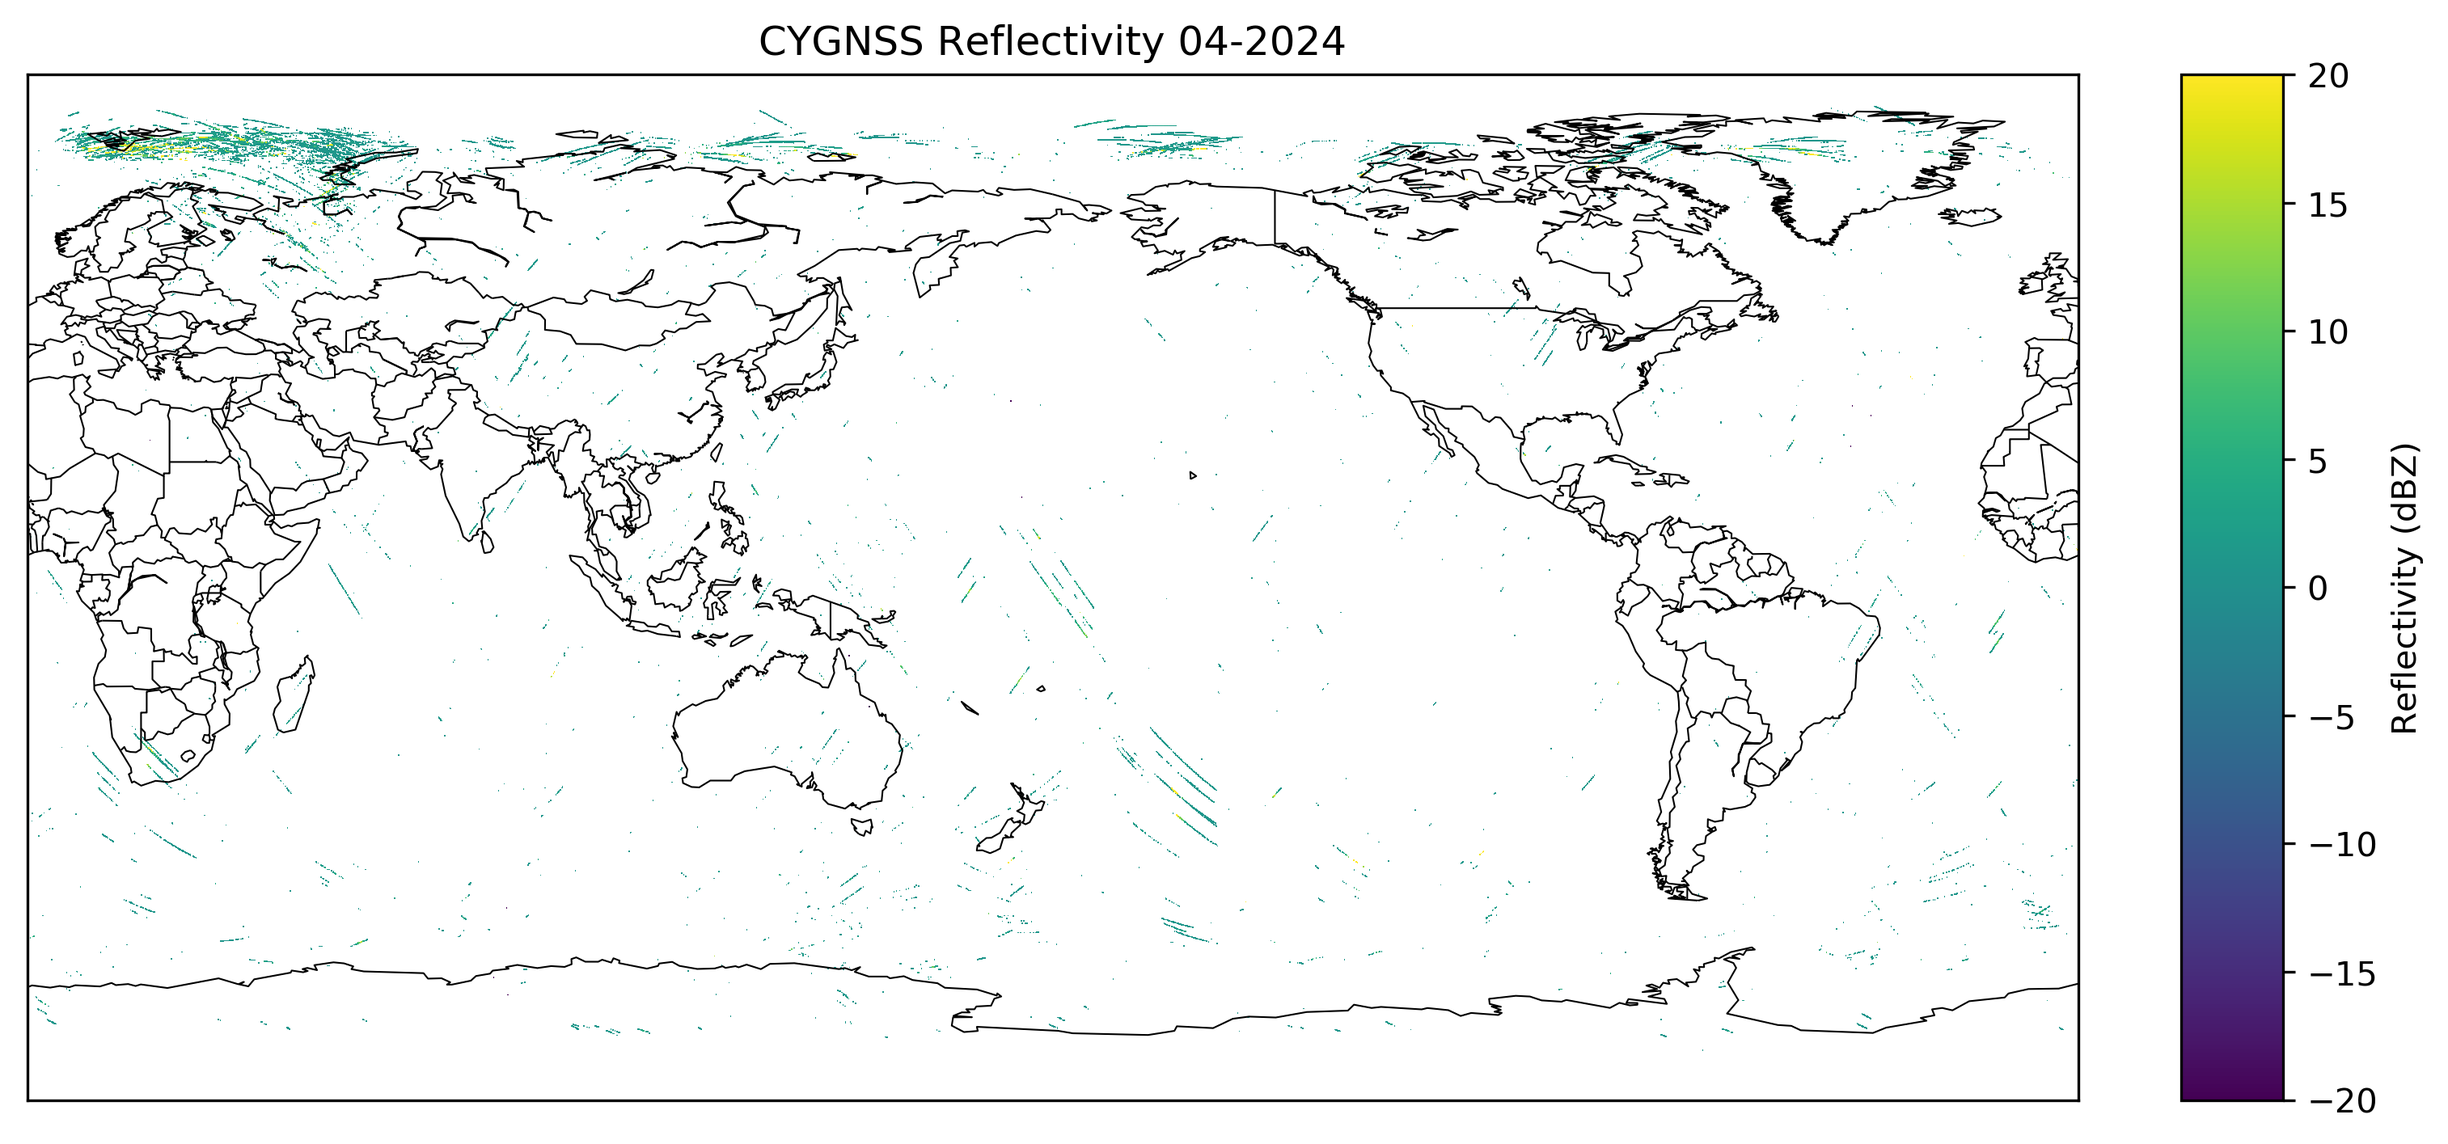
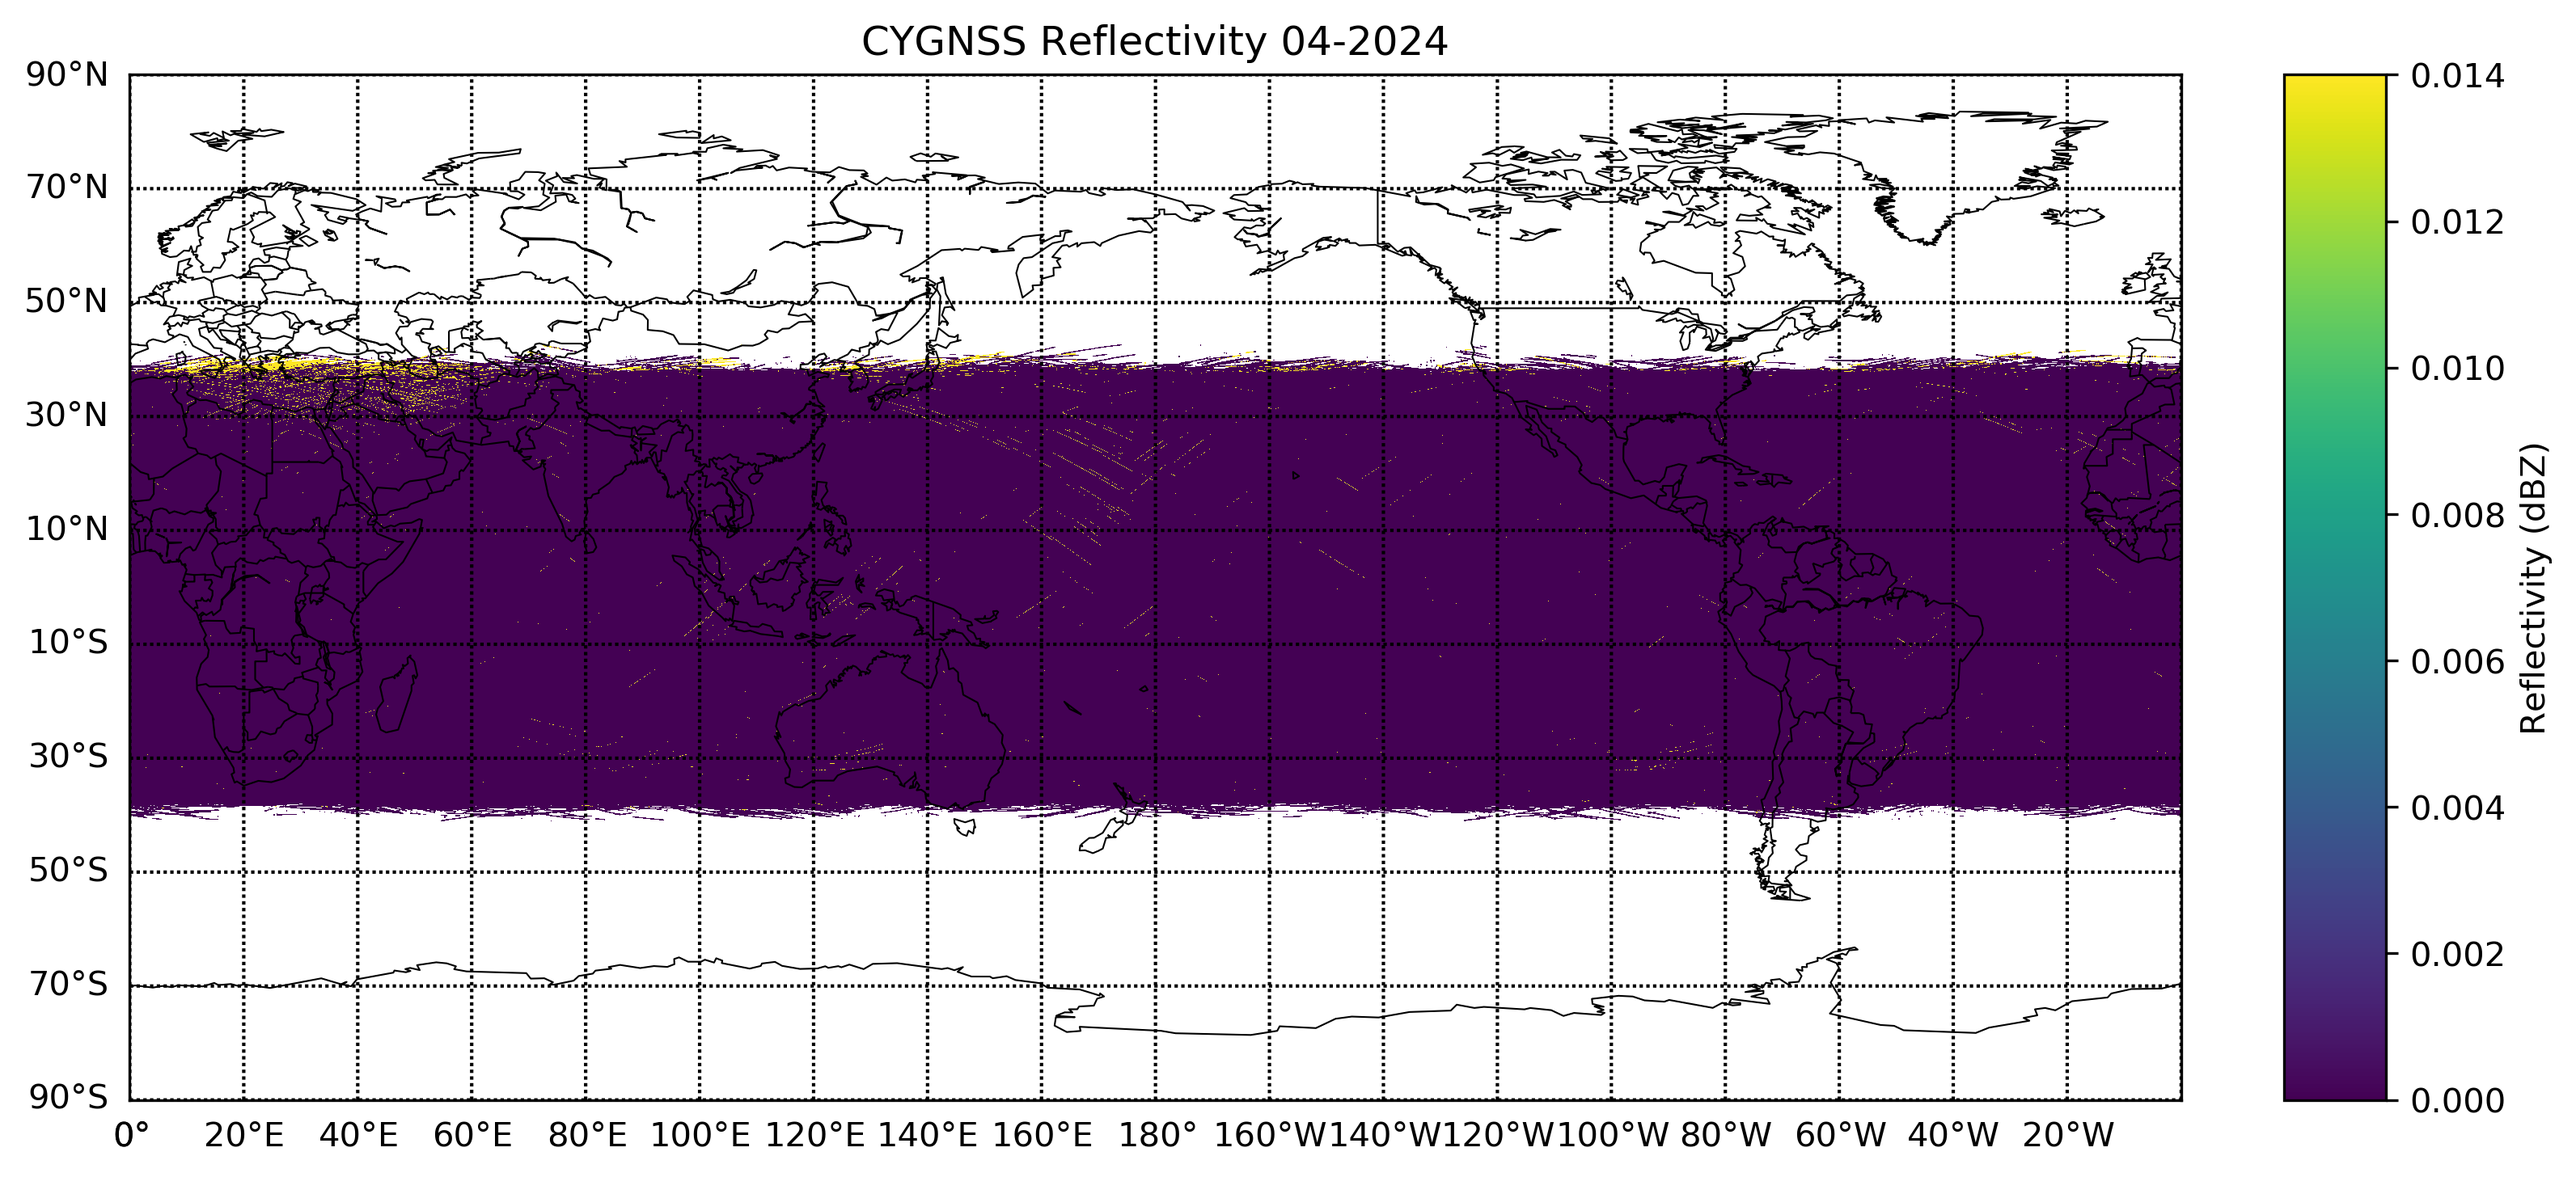
investigating issues with reflectivity; found a lot of overlapping data

diff --git a/visualize_grid.py b/visualize_grid.py
@@ -8,16 +8,16 @@ def create_figure(grid, title, label, file_name, isomin, isomax):
     fig, ax = plt.subplots(figsize=(12, 8))
 
     # the Basemap library adds a map of the Earth for easy viewing
-    m = Basemap(projection='cyl', llcrnrlat=-90, urcrnrlat=90,
+    m = Basemap(projection='cyl', llcrnrlat=-45, urcrnrlat=45,
                 llcrnrlon=0, urcrnrlon=360, resolution='c', ax=ax)
 
     # creates a meshgrid from [0, 360] and [-90, 90] used to translate argument grid to lon and lat values 
     lon_vals = np.linspace(0, 360, grid.shape[1])
-    lat_vals = np.linspace(-90, 90, grid.shape[0])
+    lat_vals = np.linspace(-45, 45, grid.shape[0])
     lon_grid, lat_grid = np.meshgrid(lon_vals, lat_vals)
 
     # remove values that are equal to -9999 (the default value in make_grid.py)
-    masked_grid = np.ma.masked_where(np.logical_or(grid == -9999, grid == 0), grid)
+    masked_grid = np.ma.masked_where(grid == -9999, grid)
 
     cs = m.pcolormesh(lon_grid, lat_grid, masked_grid, shading='auto', 
                     cmap='viridis', vmin=isomin, vmax=isomax)
@@ -25,6 +25,9 @@ def create_figure(grid, title, label, file_name, isomin, isomax):
     # customization stuff
     m.drawcoastlines(linewidth=0.5)
     m.drawcountries(linewidth=0.5)
+
+    m.drawparallels(np.arange(-90, 91, 20), labels=[1, 0, 0, 0])  # Latitude lines
+    m.drawmeridians(np.arange(0, 361, 20), labels=[0, 0, 0, 1])   # Longitude lines
 
     cbar = m.colorbar(cs, location='right', pad="5%")
     cbar.set_label(label)
@@ -37,15 +40,27 @@ def create_figure(grid, title, label, file_name, isomin, isomax):
 if __name__ == "__main__":
     # with open('/data01/lpu/spire_snr_grid.pkl', 'rb') as f:
     #     spire_snr_grid = pickle.load(f)
-    with open('/data01/lpu/spire_reflectivity_grid.pkl', 'rb') as f:
-        spire_reflectivity_grid = pickle.load(f)
+    # with open('/data01/lpu/spire_reflectivity_grid.pkl', 'rb') as f:
+    #     spire_reflectivity_grid = pickle.load(f)
+
+    # CYGNSS DATA
     # with open('/data01/lpu/cygnss_snr_grid.pkl', 'rb') as f:
     #     cygnss_snr_grid = pickle.load(f)
-    with open('/data01/lpu/cygnss_reflectivity_grid.pkl', 'rb') as f:
-        cygnss_reflectivity_grid = pickle.load(f)
+    # with open('/data01/lpu/cygnss_reflectivity_grid.pkl', 'rb') as f:
+    #     cygnss_refl_grid = pickle.load(f)
+    with open('/data01/lpu/cygnss_count_snr_grid.pkl', 'rb') as f:
+        cygnss_count_snr_grid = pickle.load(f)
+    with open('/data01/lpu/cygnss_count_reflectivity_grid.pkl', 'rb') as f:
+        cygnss_count_refl_grid = pickle.load(f)
+
+    print(f"Size of Grid: {7200 * 1800}")
+    print(f"# of Values where SNR and Refl Count are the same: {np.count_nonzero((cygnss_count_refl_grid == cygnss_count_snr_grid) == True)}")
+    print(f"# of Values where SNR and Refl Count are different: {np.count_nonzero((cygnss_count_refl_grid == cygnss_count_snr_grid) == False)}")
 
     # create_figure(spire_snr_grid, "SPIRE SNR 04-2024", "SNR (dB)", "spire_snr_map.png", 0, 10)
-    create_figure(spire_reflectivity_grid, "SPIRE Reflectivity 04-2024", "Reflectivity (dBZ)", "spire_reflectivity_map.png", -20, 20)
+    # create_figure(spire_reflectivity_grid, "SPIRE Reflectivity 04-2024", "Reflectivity (dBZ)", "spire_reflectivity_map.png", -20, 20)
     # create_figure(cygnss_snr_grid, "CYGNSS SNR 04-2024", "SNR (dB)", "cygnss_snr_map.png", 0, 10)
-    create_figure(cygnss_reflectivity_grid, "CYGNSS Reflectivity 04-2024", "Reflectivity (dBZ)", "cygnss_reflectivity_map.png", -20, 20)
+    # create_figure(cygnss_refl_grid, "CYGNSS Reflectivity 04-2024", "Reflectivity (dBZ)", "cygnss_reflectivity_map.png", 0, 0.014)
+    create_figure(cygnss_count_snr_grid, "CYGNSS SNR Count 04-2024", "Count", "cygnss_count_snr_map.png", 0, 35)
+    create_figure(cygnss_count_refl_grid, "CYGNSS Reflectivity Count 04-2024", "Count", "cygnss_count_reflectivity_map.png", 0, 35)
     

diff --git a/make_grid_CYGNSS.py b/make_grid_CYGNSS.py
@@ -6,11 +6,12 @@ import pickle
 # Task: make a grid of CYGNSS SNR and Reflectivity data for comparison and validation of SPIRE data
 # very few comments because the logic is almost exactly the same as make_grid.py  
 
-def read_file(file, grid_snr, grid_reflectivity):
+def read_file(file, grid_snr, grid_refl, grid_count_snr, grid_count_refl):
     nc_file = netCDF4.Dataset(file, "r", format="NETCDF4")
     
     # lon ~ [0, 360], lat ~ [-45, 45]
-    reflectivity = nc_file.variables['reflectivity_peak'][:]
+    # [:] needed to convert from netCDF4 variable arrays to float arrays
+    refl = nc_file.variables['reflectivity_peak'][:]
     snr = nc_file.variables['ddm_snr'][:]
     lon = nc_file.variables['sp_lon'][:]
     lat = nc_file.variables['sp_lat'][:]
@@ -19,39 +20,47 @@ def read_file(file, grid_snr, grid_reflectivity):
     y = ((lat + 45) / 0.05).astype(int) # about half of the range
 
     x = np.clip(x, 0, 7199)
-    y = np.clip(y, 0, 1799)
 
     valid_snr = ~np.ma.getmaskarray(snr) & ~np.isnan(snr)
-    valid_reflectivity = ~np.ma.getmaskarray(reflectivity) & ~np.isnan(reflectivity)
+    valid_refl = ~np.ma.getmaskarray(refl) & ~np.isnan(refl)
 
     grid_snr[y[valid_snr], x[valid_snr]] = snr[valid_snr]
+    grid_count_snr[y[valid_snr], x[valid_snr]] += 1
 
-    grid_reflectivity[y[valid_reflectivity], x[valid_reflectivity]] = reflectivity[valid_reflectivity]
+    grid_refl[y[valid_refl], x[valid_refl]] = refl[valid_refl]
+    grid_count_refl[y[valid_refl], x[valid_refl]] += 1
 
     nc_file.close()
     
-    return grid_snr, grid_reflectivity
-
+    return grid_snr, grid_refl, grid_count_snr, grid_count_refl
 
 if __name__ == "__main__":
     directory = Path('/data01/jyin/CYGNSS/data/V3.2/2023/')
-    month = "-e202304"
+    month = "-e202305"
 
     # lat ~ [-45, 45], so we need to have 1800 lat values in the grid to keep the same resolution
     snr_grid = np.full((1800, 7200), -9999)
-    reflectivity_grid = np.full((1800, 7200), -9999)
+    refl_grid = np.full((1800, 7200), -9999)
+    count_snr_grid = np.zeros((1800,7200))
+    count_refl_grid = np.zeros((1800,7200))
 
     for folder in directory.iterdir():
         if folder.is_dir():            
             for file in folder.iterdir():
                 if file.is_file() and file.suffix == '.nc' and month in file.name:
                     print(f"Reading file: {file.as_posix()}")
-                    snr_grid, reflectivity_grid = read_file(file, snr_grid, reflectivity_grid)
+                    snr_grid, refl_grid, count_snr_grid, count_refl_grid = read_file(file, snr_grid, refl_grid, count_snr_grid, count_refl_grid)
  
     snr_grid = np.nan_to_num(snr_grid, nan=-9999)
-    reflectivity_grid = np.nan_to_num(reflectivity_grid, nan=-9999)
+    refl_grid = np.nan_to_num(refl_grid, nan=-9999)
+    count_snr_grid = np.nan_to_num(count_snr_grid, nan=-9999)
+    count_refl_grid = np.nan_to_num(count_refl_grid, nan=-9999)
 
-    with open('/data01/lpu/snr_grid_cygnss.pkl', 'wb') as f:
+    with open('/data01/lpu/cygnss_snr_grid.pkl', 'wb') as f:
         pickle.dump(snr_grid, f)
-    with open('/data01/lpu/reflectivity_grid_cygnss.pkl', 'wb') as f:
-        pickle.dump(reflectivity_grid, f)
+    with open('/data01/lpu/cygnss_reflectivity_grid.pkl', 'wb') as f:
+        pickle.dump(refl_grid, f)
+    with open('/data01/lpu/cygnss_count_snr_grid.pkl', 'wb') as f:
+        pickle.dump(count_snr_grid, f)
+    with open('/data01/lpu/cygnss_count_reflectivity_grid.pkl', 'wb') as f:
+        pickle.dump(count_refl_grid, f)
